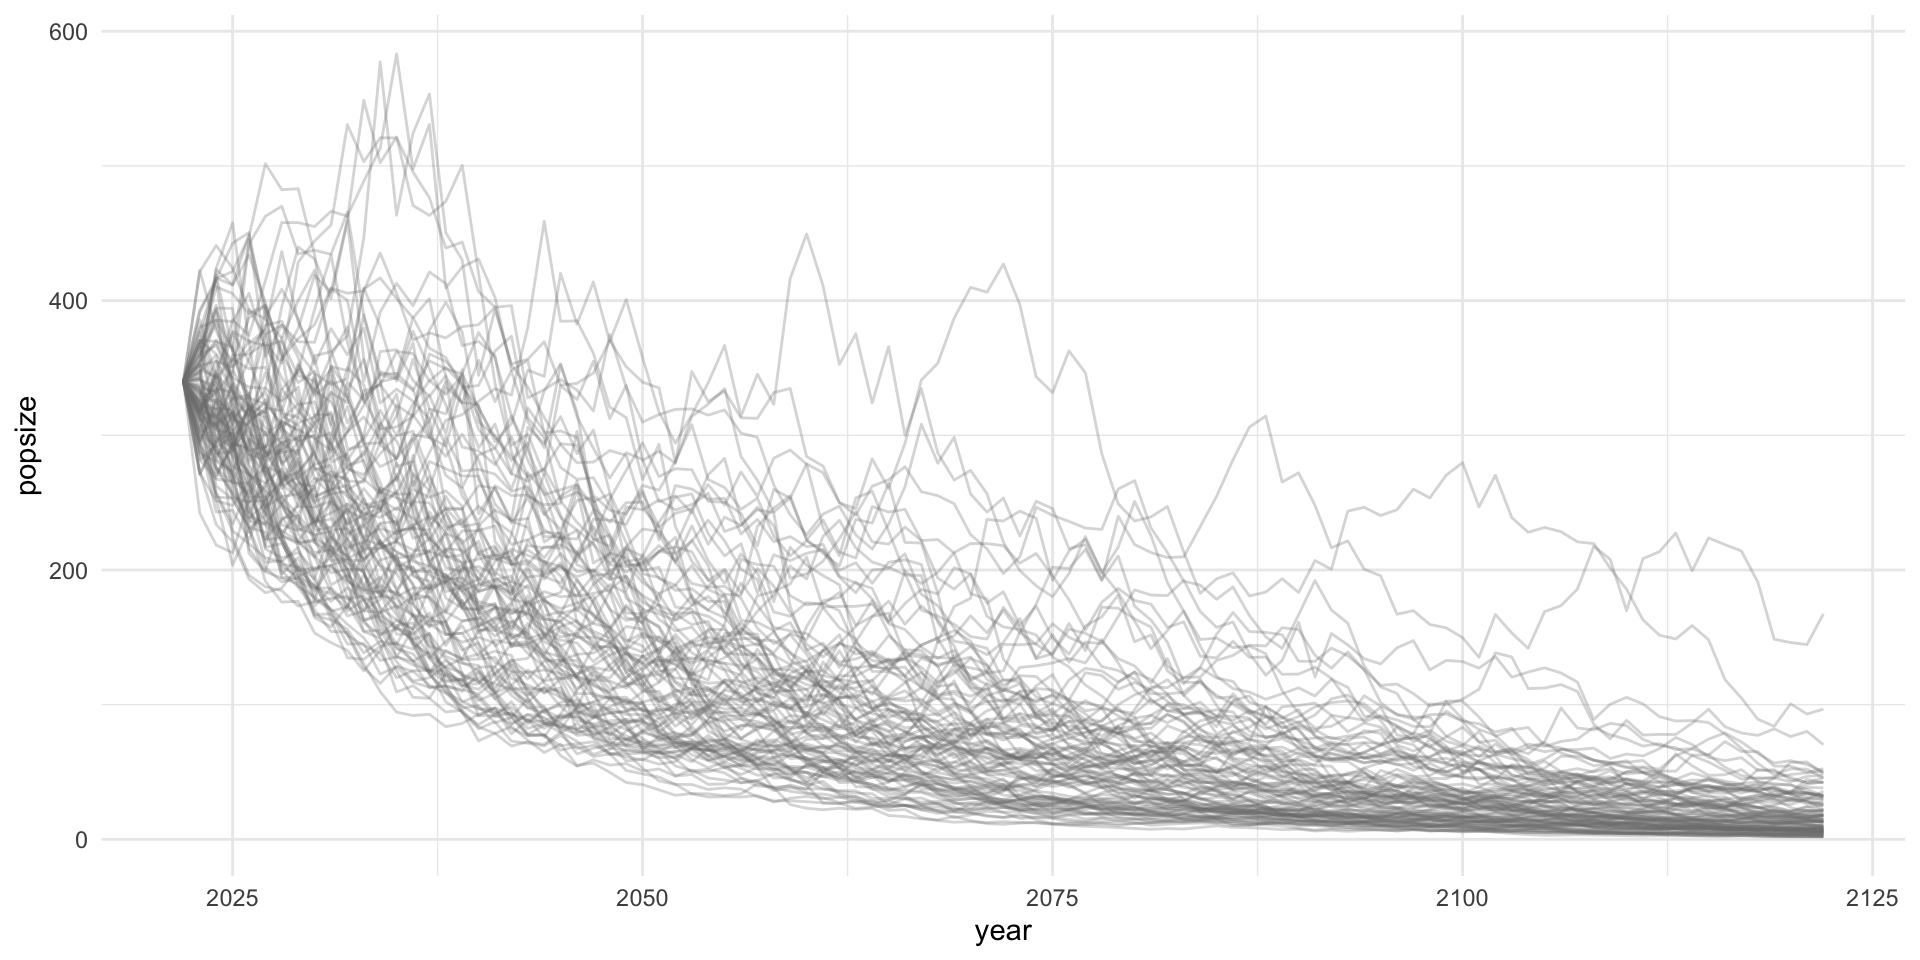
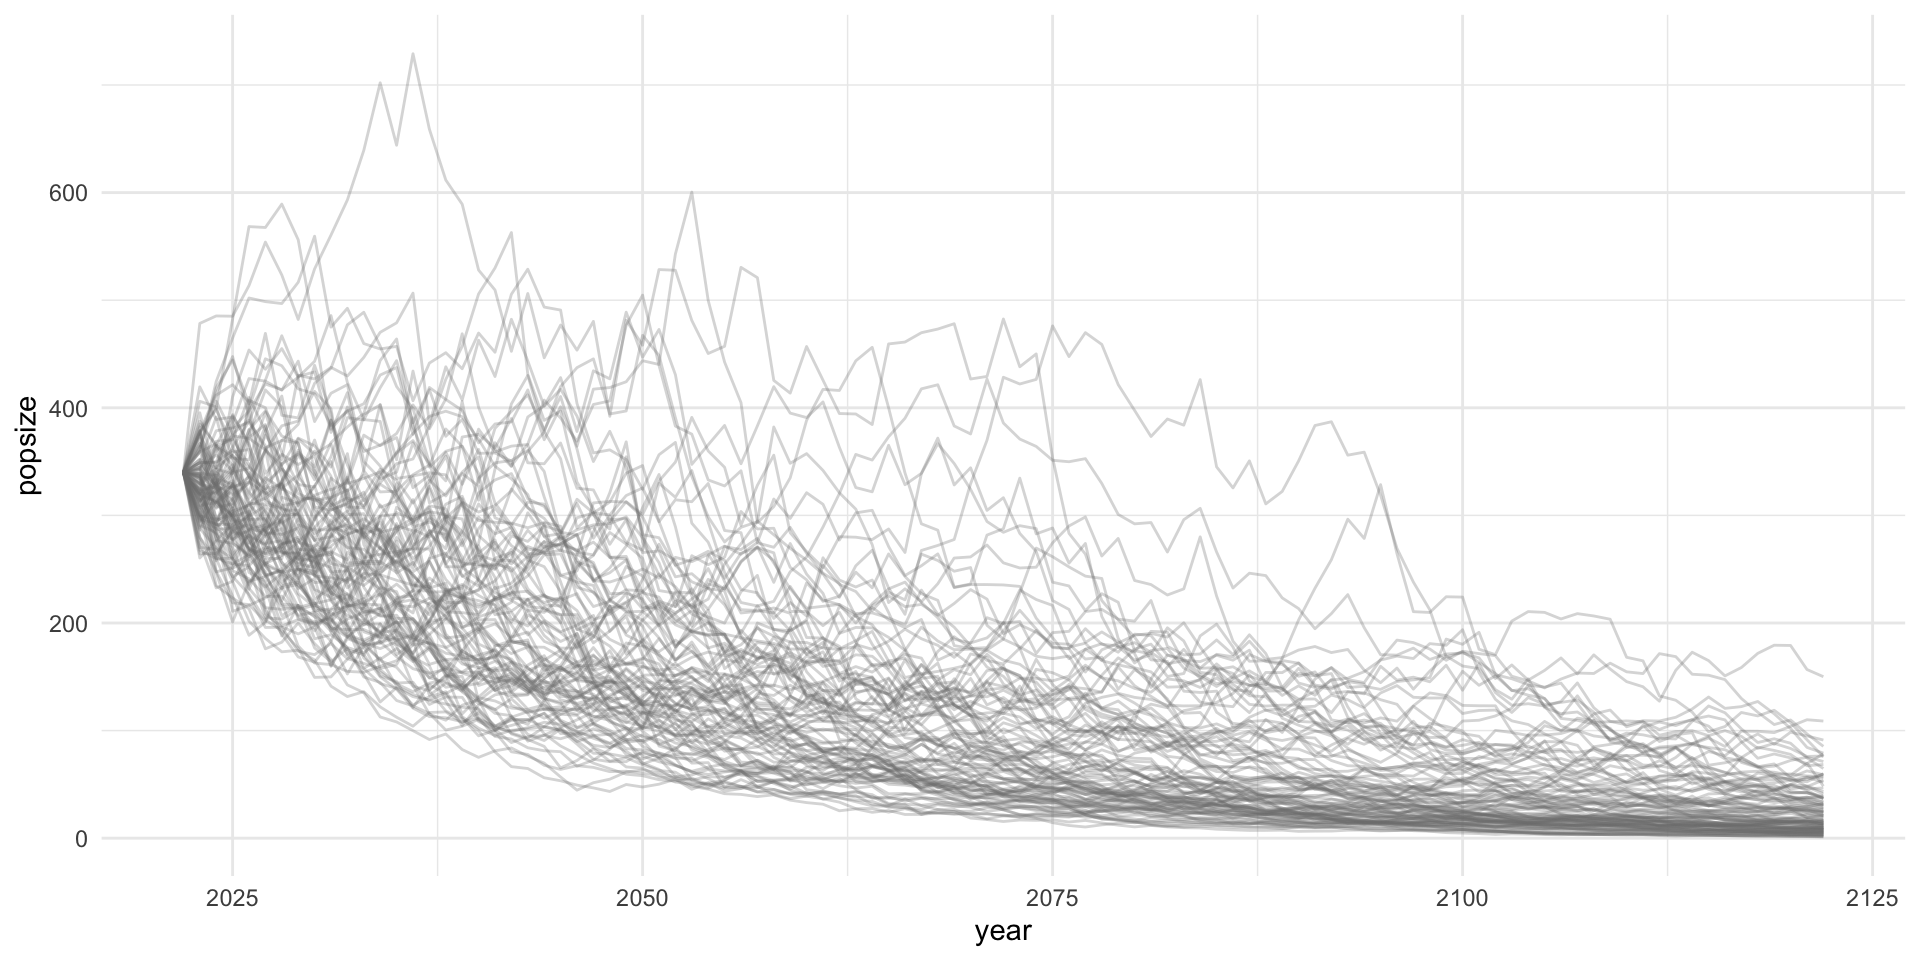
republishes changes to lab 6

diff --git a/docs/labs/lab-06.html b/docs/labs/lab-06.html
@@ -622,7 +622,7 @@ e.g.&nbsp;</p>
 <!-- ``` -->
 <div class="cell">
 <div class="cell-output-display">
-<div class="countdown" id="timer_02245dc9" data-update-every="1" tabindex="0" style="right:0;bottom:0;">
+<div class="countdown" id="timer_ecc9fb34" data-update-every="1" tabindex="0" style="right:0;bottom:0;">
 <div class="countdown-controls"><button class="countdown-bump-down">−</button><button class="countdown-bump-up">+</button></div>
 <code class="countdown-time"><span class="countdown-digits minutes">05</span><span class="countdown-digits colon">:</span><span class="countdown-digits seconds">00</span></code>
 </div>
@@ -641,9 +641,9 @@ e.g.&nbsp;</p>
 <span id="cb18-2"><a href="#cb18-2"></a>sigma <span class="ot">&lt;-</span> <span class="fu">list</span>(<span class="dv">1</span>, <span class="dv">5</span>, <span class="dv">10</span>)</span>
 <span id="cb18-3"><a href="#cb18-3"></a><span class="fu">map2</span>(mu, sigma, rnorm, <span class="at">n =</span> <span class="dv">5</span>) <span class="sc">|&gt;</span> <span class="fu">str</span>()</span>
 <span id="cb18-4"><a href="#cb18-4"></a><span class="do">## List of 3</span></span>
-<span id="cb18-5"><a href="#cb18-5"></a><span class="do">##  $ : num [1:5] 4.78 3.52 5.13 4.07 5.37</span></span>
-<span id="cb18-6"><a href="#cb18-6"></a><span class="do">##  $ : num [1:5] 9.19 3 5.49 17.36 11.51</span></span>
-<span id="cb18-7"><a href="#cb18-7"></a><span class="do">##  $ : num [1:5] 3.03 -11.75 8.77 -5.52 1.46</span></span></code><button title="Copy to Clipboard" class="code-copy-button"><i class="bi"></i></button></pre></div>
+<span id="cb18-5"><a href="#cb18-5"></a><span class="do">##  $ : num [1:5] 4.75 4.82 3.29 3.01 5.22</span></span>
+<span id="cb18-6"><a href="#cb18-6"></a><span class="do">##  $ : num [1:5] 10.32 13.04 13.4 11.85 -1.36</span></span>
+<span id="cb18-7"><a href="#cb18-7"></a><span class="do">##  $ : num [1:5] -4.21 3.92 -22.05 -4.95 -2.14</span></span></code><button title="Copy to Clipboard" class="code-copy-button"><i class="bi"></i></button></pre></div>
 </div>
 
 <img data-src="figs/map2.png" class="r-stretch"></section>
@@ -660,9 +660,9 @@ e.g.&nbsp;</p>
 <span id="cb19-7"><a href="#cb19-7"></a>  <span class="fu">pmap</span>(rnorm) <span class="sc">|&gt;</span></span>
 <span id="cb19-8"><a href="#cb19-8"></a>  <span class="fu">str</span>()</span>
 <span id="cb19-9"><a href="#cb19-9"></a><span class="do">## List of 3</span></span>
-<span id="cb19-10"><a href="#cb19-10"></a><span class="do">##  $ : num 3.63</span></span>
-<span id="cb19-11"><a href="#cb19-11"></a><span class="do">##  $ : num [1:3] 8.13 3.64 4.3</span></span>
-<span id="cb19-12"><a href="#cb19-12"></a><span class="do">##  $ : num [1:5] 17.45 -0.46 1.11 -6.99 10.42</span></span></code><button title="Copy to Clipboard" class="code-copy-button"><i class="bi"></i></button></pre></div>
+<span id="cb19-10"><a href="#cb19-10"></a><span class="do">##  $ : num 5.12</span></span>
+<span id="cb19-11"><a href="#cb19-11"></a><span class="do">##  $ : num [1:3] 15.4 13.5 15.8</span></span>
+<span id="cb19-12"><a href="#cb19-12"></a><span class="do">##  $ : num [1:5] -8.56 2.01 3.12 -6.61 13.05</span></span></code><button title="Copy to Clipboard" class="code-copy-button"><i class="bi"></i></button></pre></div>
 </div>
 <p>Safest to use named arguments with <code>pmap</code>, as it will do positional matching if not.</p>
 
@@ -964,16 +964,16 @@ We want to obtain confidence intervals of the slope estimates using bootstrappin
 <span id="cb29-11"><a href="#cb29-11"></a><span class="do">## # A tibble: 37,200 × 3</span></span>
 <span id="cb29-12"><a href="#cb29-12"></a><span class="do">##    sitename           resid replicate</span></span>
 <span id="cb29-13"><a href="#cb29-13"></a><span class="do">##    &lt;chr&gt;              &lt;dbl&gt;     &lt;int&gt;</span></span>
-<span id="cb29-14"><a href="#cb29-14"></a><span class="do">##  1 ADAK/LAKE POINT  0.0454          1</span></span>
+<span id="cb29-14"><a href="#cb29-14"></a><span class="do">##  1 ADAK/LAKE POINT  0.00614         1</span></span>
 <span id="cb29-15"><a href="#cb29-15"></a><span class="do">##  2 ADAK/LAKE POINT  0.0454          1</span></span>
-<span id="cb29-16"><a href="#cb29-16"></a><span class="do">##  3 ADAK/LAKE POINT  0.0886          1</span></span>
-<span id="cb29-17"><a href="#cb29-17"></a><span class="do">##  4 ADAK/LAKE POINT  0.0886          1</span></span>
-<span id="cb29-18"><a href="#cb29-18"></a><span class="do">##  5 ADAK/LAKE POINT -0.00375         1</span></span>
-<span id="cb29-19"><a href="#cb29-19"></a><span class="do">##  6 ADAK/LAKE POINT  0.00614         1</span></span>
-<span id="cb29-20"><a href="#cb29-20"></a><span class="do">##  7 ADAK/LAKE POINT  0.0509          1</span></span>
-<span id="cb29-21"><a href="#cb29-21"></a><span class="do">##  8 ADUGAK           0.0416          1</span></span>
-<span id="cb29-22"><a href="#cb29-22"></a><span class="do">##  9 ADUGAK          -0.0172          1</span></span>
-<span id="cb29-23"><a href="#cb29-23"></a><span class="do">## 10 ADUGAK           0.0416          1</span></span>
+<span id="cb29-16"><a href="#cb29-16"></a><span class="do">##  3 ADAK/LAKE POINT  0.0454          1</span></span>
+<span id="cb29-17"><a href="#cb29-17"></a><span class="do">##  4 ADAK/LAKE POINT -0.00375         1</span></span>
+<span id="cb29-18"><a href="#cb29-18"></a><span class="do">##  5 ADAK/LAKE POINT  0.0886          1</span></span>
+<span id="cb29-19"><a href="#cb29-19"></a><span class="do">##  6 ADAK/LAKE POINT  0.0509          1</span></span>
+<span id="cb29-20"><a href="#cb29-20"></a><span class="do">##  7 ADAK/LAKE POINT  0.00614         1</span></span>
+<span id="cb29-21"><a href="#cb29-21"></a><span class="do">##  8 ADUGAK          -0.0272          1</span></span>
+<span id="cb29-22"><a href="#cb29-22"></a><span class="do">##  9 ADUGAK          -0.0778          1</span></span>
+<span id="cb29-23"><a href="#cb29-23"></a><span class="do">## 10 ADUGAK          -0.0193          1</span></span>
 <span id="cb29-24"><a href="#cb29-24"></a><span class="do">## # … with 37,190 more rows</span></span></code><button title="Copy to Clipboard" class="code-copy-button"><i class="bi"></i></button></pre></div>
 </div>
 </section>
@@ -1017,16 +1017,16 @@ We want to obtain confidence intervals of the slope estimates using bootstrappin
 <span id="cb31-7"><a href="#cb31-7"></a><span class="do">## # A tibble: 5,300 × 6</span></span>
 <span id="cb31-8"><a href="#cb31-8"></a><span class="do">##    sitename             replicate data              model  coef        slope</span></span>
 <span id="cb31-9"><a href="#cb31-9"></a><span class="do">##    &lt;chr&gt;                    &lt;int&gt; &lt;list&gt;            &lt;list&gt; &lt;list&gt;      &lt;dbl&gt;</span></span>
-<span id="cb31-10"><a href="#cb31-10"></a><span class="do">##  1 ADAK/LAKE POINT              1 &lt;tibble [7 × 8]&gt;  &lt;lm&gt;   &lt;dbl [2]&gt; -0.0256</span></span>
-<span id="cb31-11"><a href="#cb31-11"></a><span class="do">##  2 ADUGAK                       1 &lt;tibble [8 × 8]&gt;  &lt;lm&gt;   &lt;dbl [2]&gt;  0.0470</span></span>
-<span id="cb31-12"><a href="#cb31-12"></a><span class="do">##  3 AGATTU/CAPE SABAK            1 &lt;tibble [10 × 8]&gt; &lt;lm&gt;   &lt;dbl [2]&gt; -0.120 </span></span>
-<span id="cb31-13"><a href="#cb31-13"></a><span class="do">##  4 AGATTU/GILLON POINT          1 &lt;tibble [8 × 8]&gt;  &lt;lm&gt;   &lt;dbl [2]&gt; -0.0833</span></span>
-<span id="cb31-14"><a href="#cb31-14"></a><span class="do">##  5 AKUN/BILLINGS HEAD           1 &lt;tibble [7 × 8]&gt;  &lt;lm&gt;   &lt;dbl [2]&gt;  0.110 </span></span>
-<span id="cb31-15"><a href="#cb31-15"></a><span class="do">##  6 AKUTAN/CAPE MORGAN           1 &lt;tibble [8 × 8]&gt;  &lt;lm&gt;   &lt;dbl [2]&gt;  0.0365</span></span>
-<span id="cb31-16"><a href="#cb31-16"></a><span class="do">##  7 AMCHITKA/COLUMN ROCK         1 &lt;tibble [5 × 8]&gt;  &lt;lm&gt;   &lt;dbl [2]&gt; -0.114 </span></span>
-<span id="cb31-17"><a href="#cb31-17"></a><span class="do">##  8 ATKINS                       1 &lt;tibble [9 × 8]&gt;  &lt;lm&gt;   &lt;dbl [2]&gt;  0.0339</span></span>
-<span id="cb31-18"><a href="#cb31-18"></a><span class="do">##  9 ATTU/CAPE WRANGELL           1 &lt;tibble [8 × 8]&gt;  &lt;lm&gt;   &lt;dbl [2]&gt; -0.0923</span></span>
-<span id="cb31-19"><a href="#cb31-19"></a><span class="do">## 10 AYUGADAK                     1 &lt;tibble [7 × 8]&gt;  &lt;lm&gt;   &lt;dbl [2]&gt; -0.0618</span></span>
+<span id="cb31-10"><a href="#cb31-10"></a><span class="do">##  1 ADAK/LAKE POINT              1 &lt;tibble [7 × 8]&gt;  &lt;lm&gt;   &lt;dbl [2]&gt; -0.0228</span></span>
+<span id="cb31-11"><a href="#cb31-11"></a><span class="do">##  2 ADUGAK                       1 &lt;tibble [8 × 8]&gt;  &lt;lm&gt;   &lt;dbl [2]&gt;  0.0570</span></span>
+<span id="cb31-12"><a href="#cb31-12"></a><span class="do">##  3 AGATTU/CAPE SABAK            1 &lt;tibble [10 × 8]&gt; &lt;lm&gt;   &lt;dbl [2]&gt; -0.119 </span></span>
+<span id="cb31-13"><a href="#cb31-13"></a><span class="do">##  4 AGATTU/GILLON POINT          1 &lt;tibble [8 × 8]&gt;  &lt;lm&gt;   &lt;dbl [2]&gt; -0.0645</span></span>
+<span id="cb31-14"><a href="#cb31-14"></a><span class="do">##  5 AKUN/BILLINGS HEAD           1 &lt;tibble [7 × 8]&gt;  &lt;lm&gt;   &lt;dbl [2]&gt;  0.0758</span></span>
+<span id="cb31-15"><a href="#cb31-15"></a><span class="do">##  6 AKUTAN/CAPE MORGAN           1 &lt;tibble [8 × 8]&gt;  &lt;lm&gt;   &lt;dbl [2]&gt;  0.0264</span></span>
+<span id="cb31-16"><a href="#cb31-16"></a><span class="do">##  7 AMCHITKA/COLUMN ROCK         1 &lt;tibble [5 × 8]&gt;  &lt;lm&gt;   &lt;dbl [2]&gt; -0.148 </span></span>
+<span id="cb31-17"><a href="#cb31-17"></a><span class="do">##  8 ATKINS                       1 &lt;tibble [9 × 8]&gt;  &lt;lm&gt;   &lt;dbl [2]&gt;  0.0468</span></span>
+<span id="cb31-18"><a href="#cb31-18"></a><span class="do">##  9 ATTU/CAPE WRANGELL           1 &lt;tibble [8 × 8]&gt;  &lt;lm&gt;   &lt;dbl [2]&gt; -0.0669</span></span>
+<span id="cb31-19"><a href="#cb31-19"></a><span class="do">## 10 AYUGADAK                     1 &lt;tibble [7 × 8]&gt;  &lt;lm&gt;   &lt;dbl [2]&gt; -0.0483</span></span>
 <span id="cb31-20"><a href="#cb31-20"></a><span class="do">## # … with 5,290 more rows</span></span></code><button title="Copy to Clipboard" class="code-copy-button"><i class="bi"></i></button></pre></div>
 </div>
 </section>
@@ -1041,18 +1041,18 @@ We want to obtain confidence intervals of the slope estimates using bootstrappin
 <span id="cb32-6"><a href="#cb32-6"></a>  <span class="fu">I</span>()</span>
 <span id="cb32-7"><a href="#cb32-7"></a>ssl_bootslopes</span>
 <span id="cb32-8"><a href="#cb32-8"></a><span class="do">## # A tibble: 53 × 4</span></span>
-<span id="cb32-9"><a href="#cb32-9"></a><span class="do">##    sitename                 med    lower   upper</span></span>
-<span id="cb32-10"><a href="#cb32-10"></a><span class="do">##    &lt;chr&gt;                  &lt;dbl&gt;    &lt;dbl&gt;   &lt;dbl&gt;</span></span>
-<span id="cb32-11"><a href="#cb32-11"></a><span class="do">##  1 ADAK/LAKE POINT      -0.0220 -0.0345  -0.0122</span></span>
-<span id="cb32-12"><a href="#cb32-12"></a><span class="do">##  2 ADUGAK                0.0513  0.0398   0.0613</span></span>
-<span id="cb32-13"><a href="#cb32-13"></a><span class="do">##  3 AGATTU/CAPE SABAK    -0.113  -0.126   -0.101 </span></span>
-<span id="cb32-14"><a href="#cb32-14"></a><span class="do">##  4 AGATTU/GILLON POINT  -0.0743 -0.0983  -0.0466</span></span>
-<span id="cb32-15"><a href="#cb32-15"></a><span class="do">##  5 AKUN/BILLINGS HEAD    0.0860  0.0602   0.111 </span></span>
-<span id="cb32-16"><a href="#cb32-16"></a><span class="do">##  6 AKUTAN/CAPE MORGAN    0.0400  0.0299   0.0488</span></span>
-<span id="cb32-17"><a href="#cb32-17"></a><span class="do">##  7 AMCHITKA/COLUMN ROCK -0.111  -0.151   -0.0510</span></span>
-<span id="cb32-18"><a href="#cb32-18"></a><span class="do">##  8 ATKINS                0.0295 -0.00745  0.0602</span></span>
-<span id="cb32-19"><a href="#cb32-19"></a><span class="do">##  9 ATTU/CAPE WRANGELL   -0.0729 -0.0924  -0.0397</span></span>
-<span id="cb32-20"><a href="#cb32-20"></a><span class="do">## 10 AYUGADAK             -0.0512 -0.0711  -0.0198</span></span>
+<span id="cb32-9"><a href="#cb32-9"></a><span class="do">##    sitename                 med    lower    upper</span></span>
+<span id="cb32-10"><a href="#cb32-10"></a><span class="do">##    &lt;chr&gt;                  &lt;dbl&gt;    &lt;dbl&gt;    &lt;dbl&gt;</span></span>
+<span id="cb32-11"><a href="#cb32-11"></a><span class="do">##  1 ADAK/LAKE POINT      -0.0232 -0.0325  -0.00791</span></span>
+<span id="cb32-12"><a href="#cb32-12"></a><span class="do">##  2 ADUGAK                0.0521  0.0440   0.0622 </span></span>
+<span id="cb32-13"><a href="#cb32-13"></a><span class="do">##  3 AGATTU/CAPE SABAK    -0.113  -0.127   -0.100  </span></span>
+<span id="cb32-14"><a href="#cb32-14"></a><span class="do">##  4 AGATTU/GILLON POINT  -0.0733 -0.101   -0.0485 </span></span>
+<span id="cb32-15"><a href="#cb32-15"></a><span class="do">##  5 AKUN/BILLINGS HEAD    0.0859  0.0561   0.115  </span></span>
+<span id="cb32-16"><a href="#cb32-16"></a><span class="do">##  6 AKUTAN/CAPE MORGAN    0.0410  0.0312   0.0482 </span></span>
+<span id="cb32-17"><a href="#cb32-17"></a><span class="do">##  7 AMCHITKA/COLUMN ROCK -0.113  -0.152   -0.0565 </span></span>
+<span id="cb32-18"><a href="#cb32-18"></a><span class="do">##  8 ATKINS                0.0324 -0.00903  0.0654 </span></span>
+<span id="cb32-19"><a href="#cb32-19"></a><span class="do">##  9 ATTU/CAPE WRANGELL   -0.0694 -0.0968  -0.0402 </span></span>
+<span id="cb32-20"><a href="#cb32-20"></a><span class="do">## 10 AYUGADAK             -0.0518 -0.0757  -0.0275 </span></span>
 <span id="cb32-21"><a href="#cb32-21"></a><span class="do">## # … with 43 more rows</span></span></code><button title="Copy to Clipboard" class="code-copy-button"><i class="bi"></i></button></pre></div>
 </div>
 </section>
@@ -1170,15 +1170,15 @@ We want to obtain confidence intervals of the slope estimates using bootstrappin
 <span id="cb36-19"><a href="#cb36-19"></a><span class="do">##      sim popsize  year</span></span>
 <span id="cb36-20"><a href="#cb36-20"></a><span class="do">##    &lt;int&gt;   &lt;dbl&gt; &lt;int&gt;</span></span>
 <span id="cb36-21"><a href="#cb36-21"></a><span class="do">##  1     1    340   2022</span></span>
-<span id="cb36-22"><a href="#cb36-22"></a><span class="do">##  2     1    316.  2023</span></span>
-<span id="cb36-23"><a href="#cb36-23"></a><span class="do">##  3     1    308.  2024</span></span>
-<span id="cb36-24"><a href="#cb36-24"></a><span class="do">##  4     1    359.  2025</span></span>
-<span id="cb36-25"><a href="#cb36-25"></a><span class="do">##  5     1    360.  2026</span></span>
-<span id="cb36-26"><a href="#cb36-26"></a><span class="do">##  6     1    369.  2027</span></span>
-<span id="cb36-27"><a href="#cb36-27"></a><span class="do">##  7     1    354.  2028</span></span>
-<span id="cb36-28"><a href="#cb36-28"></a><span class="do">##  8     1    429.  2029</span></span>
-<span id="cb36-29"><a href="#cb36-29"></a><span class="do">##  9     1    444.  2030</span></span>
-<span id="cb36-30"><a href="#cb36-30"></a><span class="do">## 10     1    456.  2031</span></span>
+<span id="cb36-22"><a href="#cb36-22"></a><span class="do">##  2     1    320.  2023</span></span>
+<span id="cb36-23"><a href="#cb36-23"></a><span class="do">##  3     1    329.  2024</span></span>
+<span id="cb36-24"><a href="#cb36-24"></a><span class="do">##  4     1    376.  2025</span></span>
+<span id="cb36-25"><a href="#cb36-25"></a><span class="do">##  5     1    336.  2026</span></span>
+<span id="cb36-26"><a href="#cb36-26"></a><span class="do">##  6     1    374.  2027</span></span>
+<span id="cb36-27"><a href="#cb36-27"></a><span class="do">##  7     1    352.  2028</span></span>
+<span id="cb36-28"><a href="#cb36-28"></a><span class="do">##  8     1    430.  2029</span></span>
+<span id="cb36-29"><a href="#cb36-29"></a><span class="do">##  9     1    427.  2030</span></span>
+<span id="cb36-30"><a href="#cb36-30"></a><span class="do">## 10     1    438.  2031</span></span>
 <span id="cb36-31"><a href="#cb36-31"></a><span class="do">## # … with 10,090 more rows</span></span></code><button title="Copy to Clipboard" class="code-copy-button"><i class="bi"></i></button></pre></div>
 </div>
 </section>
@@ -1250,7 +1250,7 @@ We want to obtain confidence intervals of the slope estimates using bootstrappin
 <span id="cb39-6"><a href="#cb39-6"></a><span class="do">## # A tibble: 1 × 2</span></span>
 <span id="cb39-7"><a href="#cb39-7"></a><span class="do">##    year prob_100</span></span>
 <span id="cb39-8"><a href="#cb39-8"></a><span class="do">##   &lt;int&gt;    &lt;dbl&gt;</span></span>
-<span id="cb39-9"><a href="#cb39-9"></a><span class="do">## 1  2059     0.54</span></span>
+<span id="cb39-9"><a href="#cb39-9"></a><span class="do">## 1  2064     0.51</span></span>
 <span id="cb39-10"><a href="#cb39-10"></a>below_thresh</span>
 <span id="cb39-11"><a href="#cb39-11"></a><span class="do">## # A tibble: 101 × 2</span></span>
 <span id="cb39-12"><a href="#cb39-12"></a><span class="do">##     year prob_100</span></span>
@@ -1327,11 +1327,9 @@ We want to obtain confidence intervals of the slope estimates using bootstrappin
 <span id="cb42-9"><a href="#cb42-9"></a>[<span class="dv">1</span>] <span class="dv">2076</span></span></code><button title="Copy to Clipboard" class="code-copy-button"><i class="bi"></i></button></pre></div>
 </div>
 <p>Pro-tip: when you end up in an infinite loop with no stopping point, press <code>&lt;ESC&gt;</code> to stop it running!</p>
-</section>
-<section id="exercise-3-snow-lepoards" class="slide level2">
-<h2>Exercise 3: Snow Lepoards</h2>
-<p>Assume that the annual growth rate of the snow leopard population is lognormally distributed with a mean of 0.95 and log-standard deviation of 0.1.</p>
-<p>Use a <code>while</code> loop (hint: re-use the code on the previous slide and add the annual growth rate change to the population update equation), and plot a distribution over 1,000 simulations of the year in which the population falls below 500 animals.</p>
+<!-- ## Exercise 3: Snow Lepoards -->
+<!-- Assume that the annual growth rate of the snow leopard population is lognormally distributed with a mean of 0.95 and log-standard deviation of 0.1.    -->
+<!-- Use a `while` loop (hint: re-use the code on the previous slide and add the annual growth rate change to the population update equation), and plot a distribution over 1,000 simulations of the year in which the population falls below 500 animals.   -->
 <!-- ```{r prompt=FALSE,comment='',collapse=TRUE} -->
 <!-- leopard.loop <- function(N, year=2023) { -->
 <!--   while (N>=500) { -->
@@ -1369,10 +1367,10 @@ This is the only way to terminate repeat loops.</p>
 <div class="sourceCode cell-code" id="cb43"><pre class="sourceCode numberSource r number-lines code-with-copy"><code class="sourceCode r"><span id="cb43-1"><a href="#cb43-1"></a>xdat <span class="ot">&lt;-</span> <span class="fu">matrix</span>(<span class="fu">rnorm</span>(<span class="dv">1000000</span>), <span class="dv">100000</span>, <span class="dv">10</span>)</span>
 <span id="cb43-2"><a href="#cb43-2"></a><span class="fu">system.time</span>(x_mean <span class="ot">&lt;-</span> <span class="fu">apply</span>(xdat, <span class="dv">1</span>, mean))</span>
 <span id="cb43-3"><a href="#cb43-3"></a>   user  system elapsed </span>
-<span id="cb43-4"><a href="#cb43-4"></a>  <span class="fl">0.856</span>   <span class="fl">0.012</span>   <span class="fl">1.301</span> </span>
+<span id="cb43-4"><a href="#cb43-4"></a>  <span class="fl">0.922</span>   <span class="fl">0.019</span>   <span class="fl">1.895</span> </span>
 <span id="cb43-5"><a href="#cb43-5"></a><span class="fu">system.time</span>(x_mean <span class="ot">&lt;-</span> <span class="fu">rowMeans</span>(xdat))</span>
 <span id="cb43-6"><a href="#cb43-6"></a>   user  system elapsed </span>
-<span id="cb43-7"><a href="#cb43-7"></a>  <span class="fl">0.005</span>   <span class="fl">0.000</span>   <span class="fl">0.005</span> </span></code><button title="Copy to Clipboard" class="code-copy-button"><i class="bi"></i></button></pre></div>
+<span id="cb43-7"><a href="#cb43-7"></a>  <span class="fl">0.004</span>   <span class="fl">0.000</span>   <span class="fl">0.005</span> </span></code><button title="Copy to Clipboard" class="code-copy-button"><i class="bi"></i></button></pre></div>
 </div>
 <!-- ## Lab exercise X/N {.small} -->
 <!-- ```{r collapse = TRUE} -->
@@ -1388,8 +1386,8 @@ This is the only way to terminate repeat loops.</p>
 <!-- countdown(minutes = 8, font_size = "2em") -->
 <!-- ``` -->
 </section>
-<section id="lab-exercise-44" class="slide level2 smaller">
-<h2>Lab Exercise 4/4</h2>
+<section id="lab-exercise-33" class="slide level2 smaller">
+<h2>Lab Exercise 3/3</h2>
 <p><code>data/eukaryotes.tsv</code> contains a NCBI Eukaryotic genome dataset, with basic information about the genomic content of all eukaryotes that were uploaded to the NCBI Genome database.<br>
 It contains accession numbers, information about the quality of the genome and stats such a average genome size and GC-content.<br>
 Use <code>glimpse()</code> and other data exploration to get familiar with the data. Then use <code>map_*</code> functions to answer the following:</p>
@@ -1407,8 +1405,8 @@ Use <code>glimpse()</code> and other data exploration to get familiar with the d
 <li>How many sub groups are there per group?</li>
 </ol>
 </section>
-<section id="lab-exercise-4-continued" class="slide level2 small">
-<h2>Lab Exercise 4 continued…</h2>
+<section id="lab-exercise-3-continued" class="slide level2 small">
+<h2>Lab Exercise 3 continued…</h2>
 <p>We might hypothesisze that “The bigger the size of a genome, the higher the number of proteins”.</p>
 <ol start="8" type="1">
 <li>Fit a linear model of <code>log10_proteins ~ log10_size_mb</code> for each group.<br>
